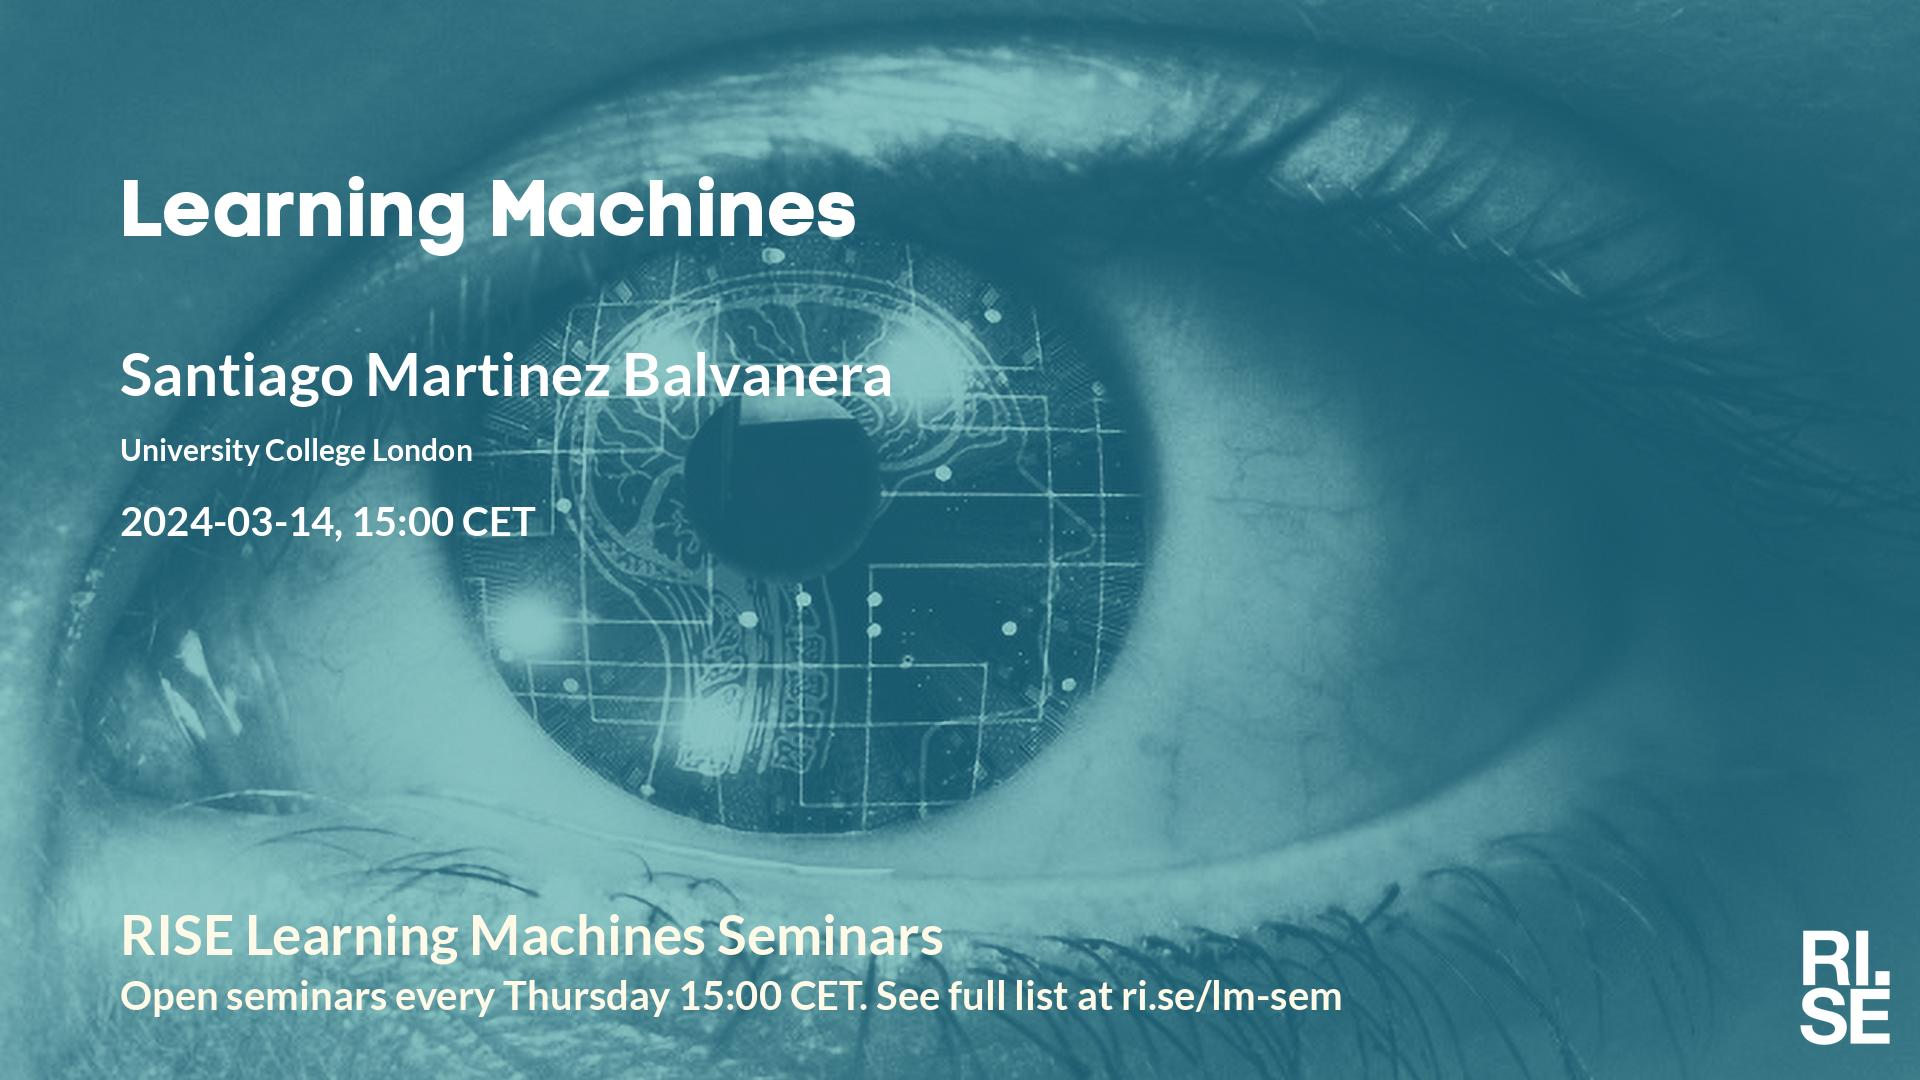
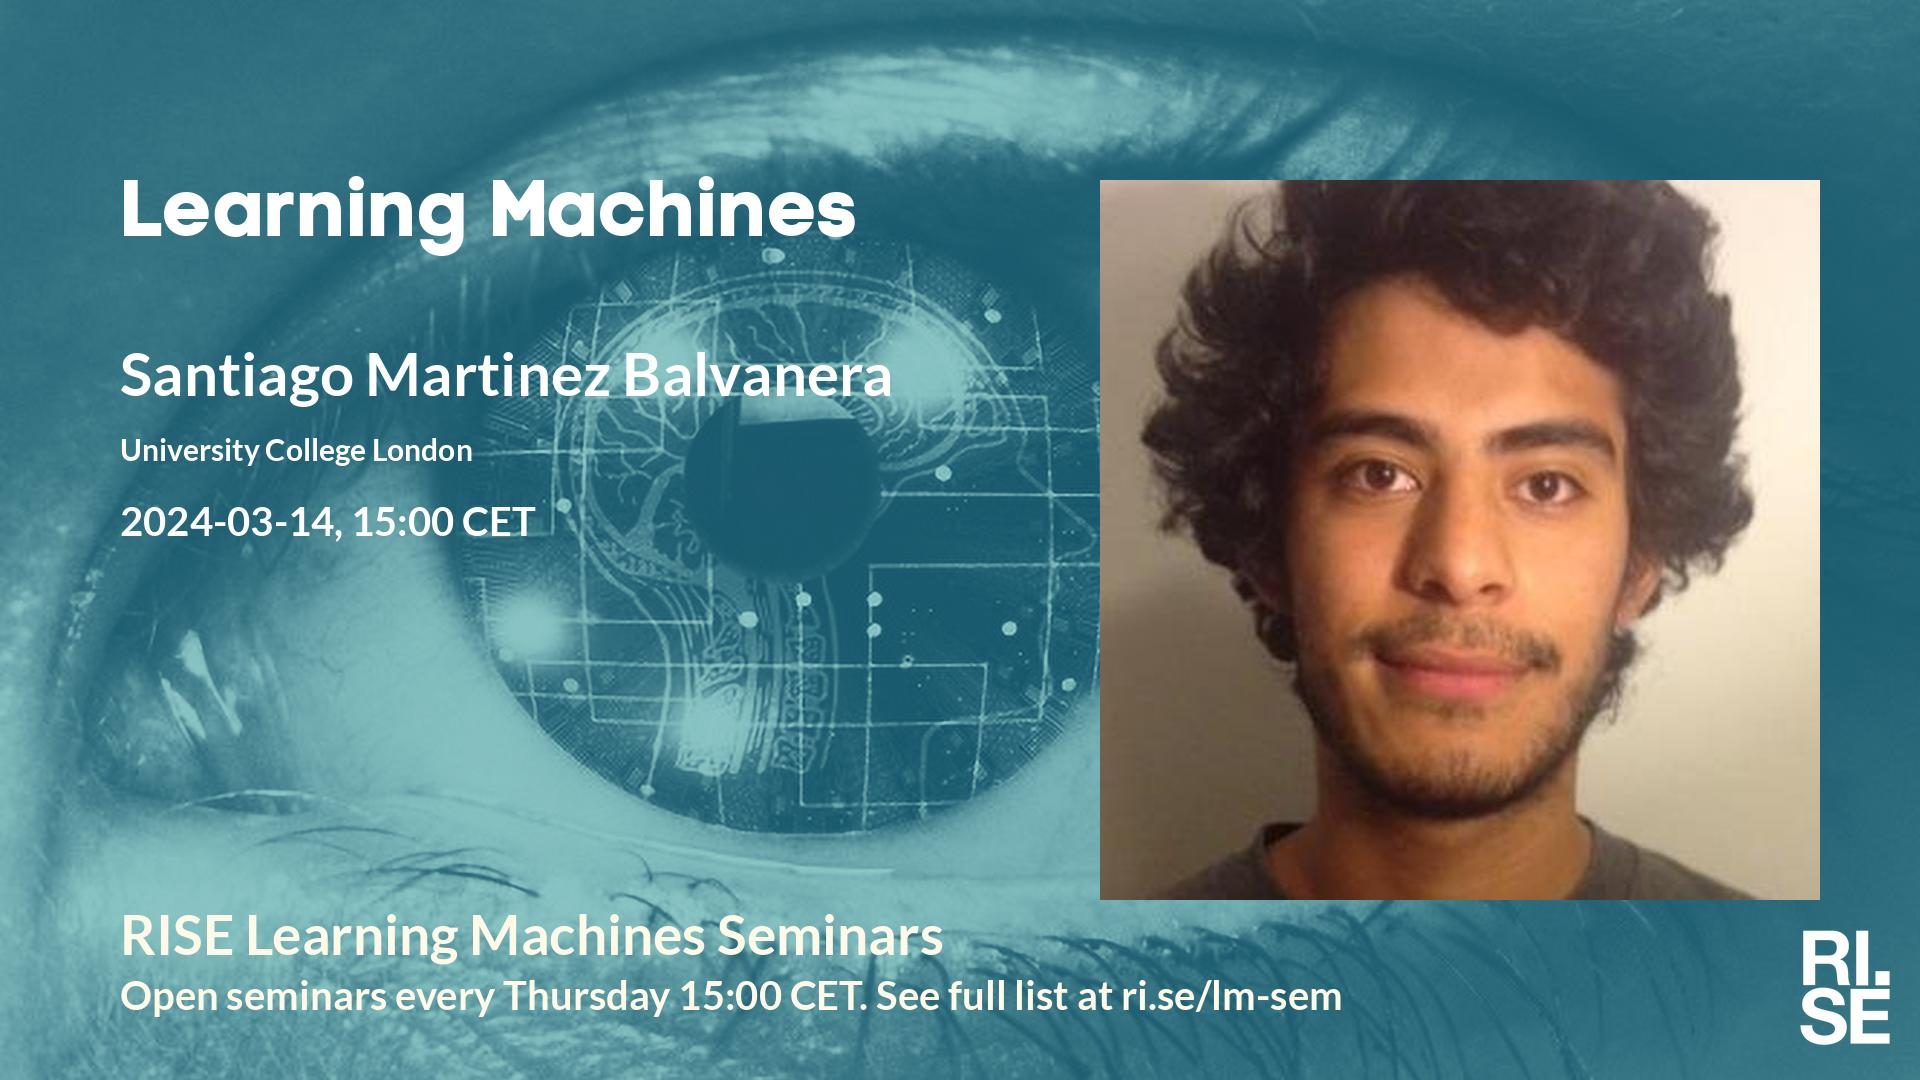
Updated plan on web site.

Changed region(s): [[0.5625, 0.1528, 0.9688, 0.8556]]

diff --git a/lm/index.md b/lm/index.md
@@ -25,7 +25,7 @@ table {border-collapse: collapse;}
 |  2024-02-22  |  [Alexander Mathis, EPFL](2024-02-22.md)  |  [photo](photo-alexander-mathis.jpg)  |  [social media ](social-media-alexander-mathis.jpg)  |  [meeting backdrop ](meeting-backdrop-alexander-mathis.jpg)  |  [youtube thumbnail ](youtube-thumbnail-alexander-mathis.jpg)  |  STABP  |
 | <span style="color:red"> 2024-02-29 </span> | <span style="color:red"> Sportlov </span> | <span style="color:red">  </span> | <span style="color:red">  </span> | <span style="color:red">  </span> | <span style="color:red">  </span> | <span style="color:red"> CANCELLED </span> |
 |  2024-03-07  |  [Elise van der Pol, Microsoft Research](2024-03-07.md)  |  [photo](photo-elise-van-der-pol.jpg)  |  [social media ](social-media-elise-van-der-pol.jpg)  |  [meeting backdrop ](meeting-backdrop-elise-van-der-pol.jpg)  |  [youtube thumbnail ](youtube-thumbnail-elise-van-der-pol.jpg)  |  S~~TAB~~P  |
-|  2024-03-14  |  [Santiago Martinez Balvanera, University College London](2024-03-14.md)  |    |  [social media ](social-media-santiago-martinez-balvanera.jpg)  |  [meeting backdrop ](meeting-backdrop-santiago-martinez-balvanera.jpg)  |  [youtube thumbnail ](youtube-thumbnail-santiago-martinez-balvanera.jpg)  |  S~~TABP~~  |
+|  2024-03-14  |  [Santiago Martinez Balvanera, University College London](2024-03-14.md)  |  [photo](photo-santiago-martinez-balvanera.jpg)  |  [social media ](social-media-santiago-martinez-balvanera.jpg)  |  [meeting backdrop ](meeting-backdrop-santiago-martinez-balvanera.jpg)  |  [youtube thumbnail ](youtube-thumbnail-santiago-martinez-balvanera.jpg)  |  S~~TAB~~P  |
 | <span style="color:grey"> 2024-03-21 </span> | <span style="color:grey"> Karsten K. ? </span> | <span style="color:grey">  </span> | <span style="color:grey">  </span> | <span style="color:grey">  </span> | <span style="color:grey">  </span> | <span style="color:grey"> S~~TABP~~ </span> |
 | <span style="color:purple"> 2024-03-28 </span> | <span style="color:purple"> *Up for grabs!!!* </span> | <span style="color:purple">  </span> | <span style="color:purple">  </span> | <span style="color:purple">  </span> | <span style="color:purple">  </span> | <span style="color:purple"> ~~STABP~~ </span> |
 | <span style="color:purple"> 2024-04-18 </span> | <span style="color:purple"> *Up for grabs!!!* </span> | <span style="color:purple">  </span> | <span style="color:purple">  </span> | <span style="color:purple">  </span> | <span style="color:purple">  </span> | <span style="color:purple"> ~~STABP~~ </span> |
